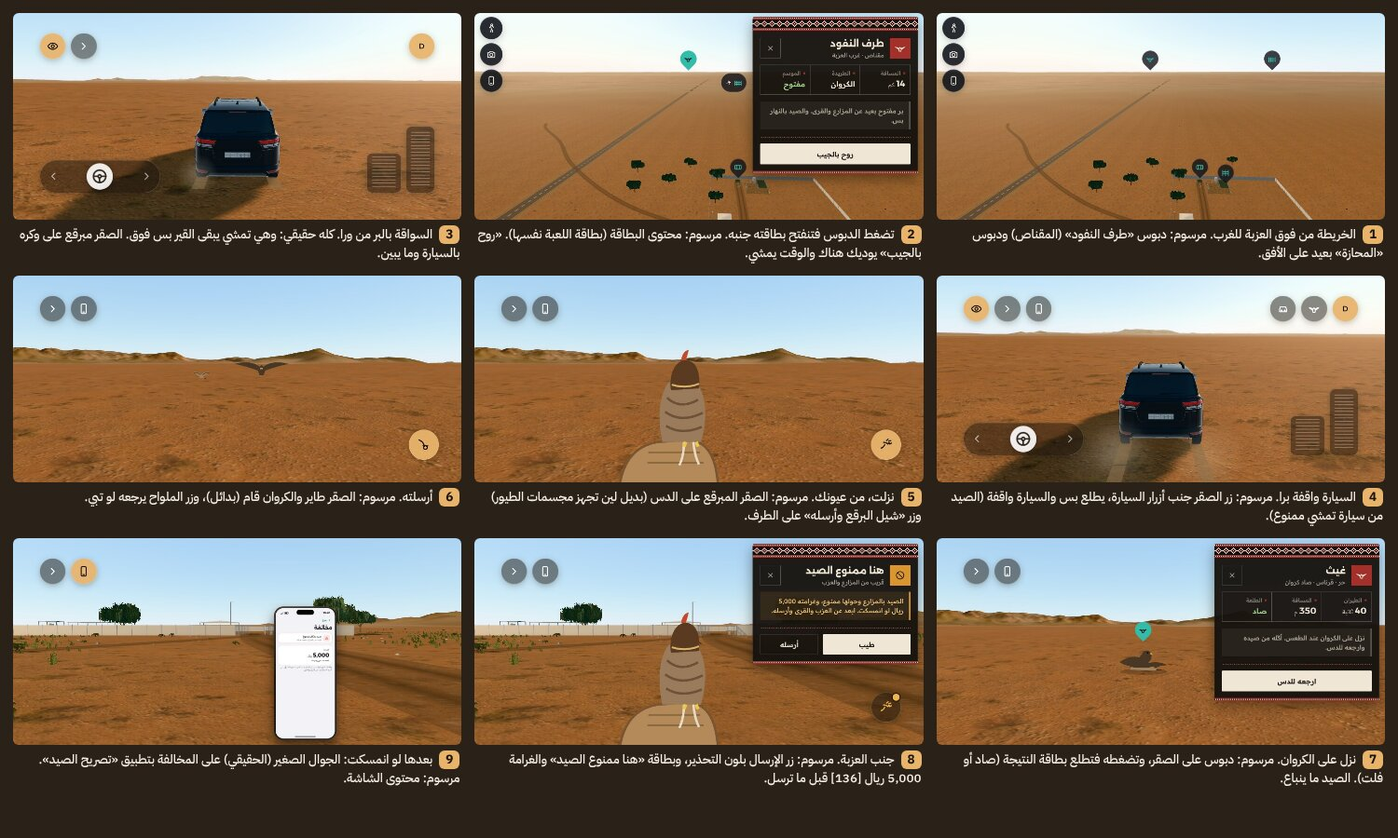
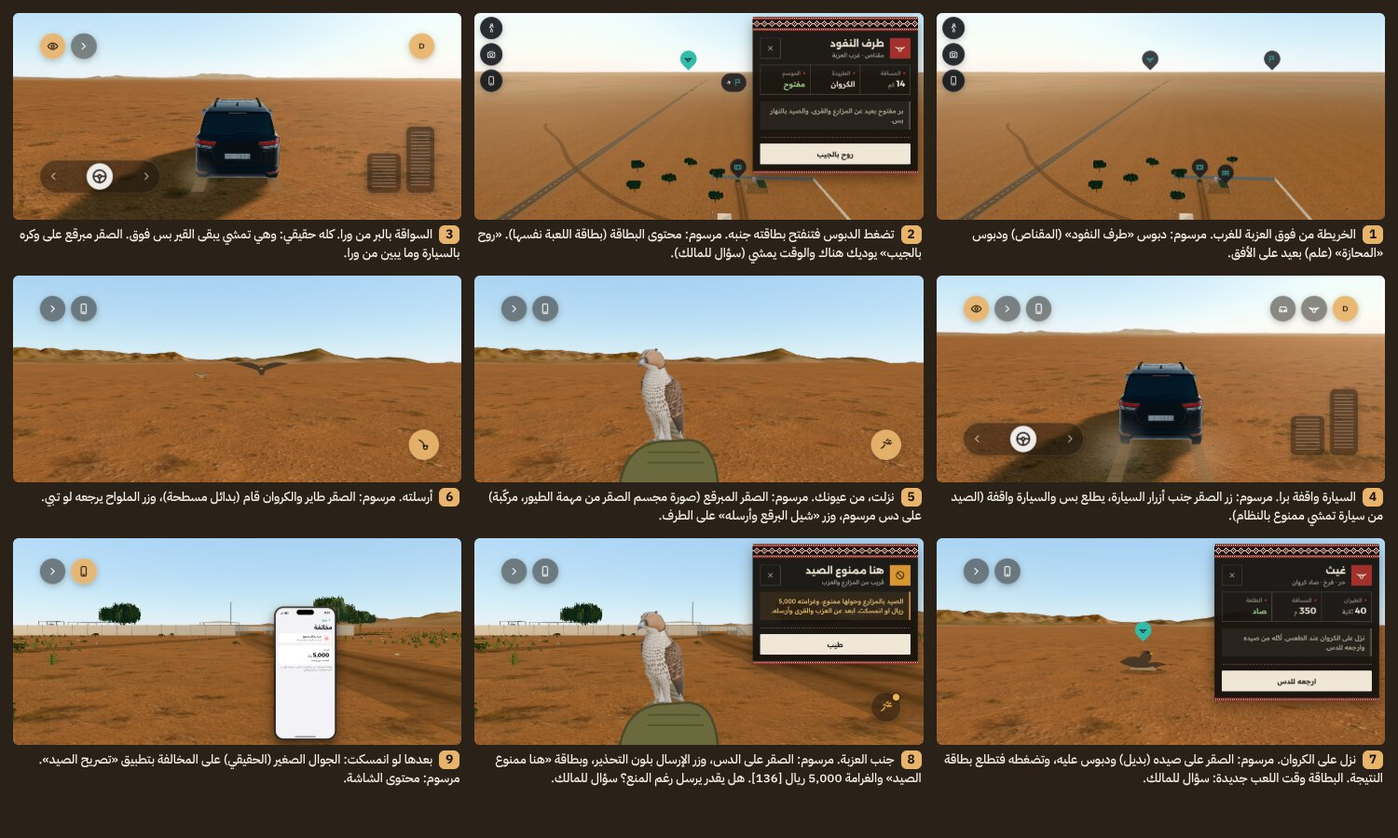
Hunting design: the reviewer's phase-2 findings
No invented inches: each lot shows تام or مثلوث (a game choice on the club's
wording) and the race's 16-inch rule stays only on the festival screen, what it
measures unknown. Wild-caught lots are «طرح هالموسم، ببيعة المزاد», mostly فرخ;
the sample falcon (bought for 32,000) finishes out of the prizes in المزاين,
with a third place's card kept only as an example; «ادعه اليوم»; the festival
scrolled to its rules (15 views). The money table sells at the next autumn's
auction after the moult's feed, adds the average prize (about 7,300 a falcon,
an estimate) and the spring release. Storyboard: T11's hooded saker on the glove
in frames 5 and 8, a strip under each frame, a flag for the estate, the warning
card offers only «طيب»; the driver's seat counted (37 draws / 159k). T11's
measured triangles replace the estimates. The note asks the card in play and
casting in a banned place, adds the spring release, and drops the patrol's name
(the owner's names decision answers it). Layout audit clean; words lint flags
only the ban lines.

Claude-Session: https://claude.ai/code/session_01MLonhqocXpQK4avaG2Yu99

diff --git a/design/hunt/cut_bird.py b/design/hunt/cut_bird.py
@@ -1,0 +1,27 @@
+#!/usr/bin/env python3
+"""Cut task T11's hooded saker out of its render, for the storyboard's frames 5 and 8 (outing.cjs), where the bird is
+seen large. The render's backdrop is a smooth gradient: it is flooded from the picture's edges, pixel to pixel while the
+colour changes by less than 9 (sum of RGB), and what the flood never reaches is the bird. Crop above the perch's top.
+Usage: python3 -I design/hunt/cut_bird.py [<T11's saker_hooded_three_quarter.jpg>] [<out png>]
+(default: design/birds/saker_hooded_three_quarter.jpg -> design/hunt/t11_saker_hooded.png)."""
+import sys
+from collections import deque
+from PIL import Image, ImageFilter
+import numpy as np
+src = sys.argv[1] if len(sys.argv) > 1 else 'design/birds/saker_hooded_three_quarter.jpg'
+out = sys.argv[2] if len(sys.argv) > 2 else 'design/hunt/t11_saker_hooded.png'
+img = Image.open(src).convert('RGB').crop((440, 130, 760, 585))
+im = np.asarray(img).astype(int); H, W, _ = im.shape
+bg = np.zeros((H, W), bool); q = deque()
+for x in range(W): q += [(0, x), (H - 1, x)]
+for y in range(H): q += [(y, 0), (y, W - 1)]
+for y, x in q: bg[y, x] = True
+while q:
+    y, x = q.popleft()
+    for dy, dx in ((1, 0), (-1, 0), (0, 1), (0, -1)):
+        ny, nx = y + dy, x + dx
+        if 0 <= ny < H and 0 <= nx < W and not bg[ny, nx] and abs(im[ny, nx] - im[y, x]).sum() < 9:
+            bg[ny, nx] = True; q.append((ny, nx))
+m = Image.fromarray(((~bg) * 255).astype(np.uint8)).filter(ImageFilter.MaxFilter(3)).filter(ImageFilter.MinFilter(5)).filter(ImageFilter.MaxFilter(3)).filter(ImageFilter.GaussianBlur(0.7))
+rgba = img.convert('RGBA'); rgba.putalpha(m); rgba.save(out)
+print('wrote', out, rgba.size)

diff --git a/docs/proposals/hunting_season_design.md b/docs/proposals/hunting_season_design.md
@@ -12,7 +12,7 @@
 | Picture | What it shows | GDD draft |
 |---|---|---|
 | `design/hunt/season_calendar.jpg` (`season.cjs`) | A year, Aug 2026 to Jul 2027: the falcons' lane, the season, the falcon festival's two disagreeing date ranges, the camels' lane from the engine; the new game's start and its first season; the two collisions | 13.1, 13.2 |
-| `design/ui/phone_falcon.jpg` (`phone_falcon.cjs`, 13 views) | The home screen with ten apps; «نادي الصقور»: the auction, a falcon's page for a buyer and the bid, the player's falcon, الدعو, the festival, the race day, the race result, المزاين's result; «تصريح الصيد»: before it is taken, held (top and scrolled), and a violation | 13.1, 13.2 |
+| `design/ui/phone_falcon.jpg` (`phone_falcon.cjs`, 15 views) | The home screen with ten apps; «نادي الصقور»: the auction, a falcon's page for a buyer and the bid, the player's falcon, الدعو, the festival (top and scrolled to its rules), the race day, the race result, المزاين's result (the sample falcon out of the prizes), and an example of a third place's card; «تصريح الصيد»: before it is taken, held (top and scrolled), and a violation | 13.1, 13.2 |
 | `design/hunt/outing_1..9_*.jpg`, `outing_board.jpg` (`outing.cjs`) | The outing on real screenshots of the game: the two places as far pins, the place's card, driving out, parked, on foot with the falcon on the glove, the cast-off, the result, the banned place's warning, the fine after | 13.1 |
 | `design/hunt/season_money.jpg` (`season.cjs`) | One season's costs against what it can bring, for a pastime and for a contest falcon | 13.1, 13.2 |
 
@@ -66,8 +66,14 @@ loses a step (game choice). No الدعو in the moult.
 ### What a buyer sees, and what stays hidden
 
 A falcon on the auction shows its species, age (فرخ under a year, قرناس over [169]), origin
-(طرح or farm-bred), its span in inches (a saker at least 16 for the contests [169]) and its
-weight: all things a buyer really sees. How it hunts and races is never shown: only its
+(طرح or farm-bred), whether it is «تام» (a full-sized female) or «مثلوث» (the smaller male), and
+its weight: all things a buyer really sees. «تام / مثلوث» is a game choice resting on the club's
+2025 rules' wording as a search summary gives it («تام وليس مثلوث»; not in research section 8).
+The race's «الحر عرضه 16 إنش وفوق» [169] is shown only on the festival screen, as the club's own
+words: **what the inches measure is not known** (not the wingspan: 16 in is 40.6 cm), so no
+falcon carries a number of inches. A wild-caught bird is «طرح هالموسم»: trapped this season and
+sold at the auction [156][157]; that it was trapped with a licence rests on a weak source [160].
+Most wild-caught lots are فرخ (a wild-caught قرناس is rarer: game choice). How it hunts and races is never shown: only its
 outings and results tell, as with the camels' scores.
 
 ### The outing
@@ -92,9 +98,11 @@ outings and results tell, as with the camels' scores.
 8. A banned place (the farm and around it, towns, reserves, the coast to 20 km
    [127][134][135]), a closed season or night (an hour before sunset to an hour after sunrise
    [135], one source): the button shows in its warning colour; a tap opens the warning card with
-   the fine in words (5,000 [136]); the player may still cast (as cheating at the festival).
+   the fine in words (5,000 [136]). The card offers only «طيب»: whether he may knowingly cast
+   anyway is the owner's (question 8).
 9. Caught, the fine comes after, in the permit app (a badge on the phone button): «مخالفة».
-   Who stops him is «الدورية»: the real body (الأمن البيئي) is not named (question 7).
+   Who stops him is «الدورية»: the real body is not named, following the owner's generic-names
+   decision of 13 Nov.
 
 **Why open land offers only الكروان:** the law. The stone-curlew is the falcon's quarry on the
 open-land list [140]; houbara is confirmed only in the licensed estates [142], and whether it
@@ -103,30 +111,35 @@ falconer will ask why: this is why.
 
 **The card in play** is new: today the place card is hidden in play (`body.playing #pop`).
 The frames show it docked on the right, as on the map. On foot there is nothing else there;
-in the car the card must sit below the car's row (a build note).
+in the car the card must sit below the car's row. The approved HUD hides cards in play, so this
+is the owner's to decide (question 7).
 
 **What a frame costs:** the base of each frame was counted from the WebGL calls (main pass and
 shadow pass, `design/hunt/outing_draws.txt`; SwiftShader at 956x440, the counts are the
-phone's, the times are not). The new models are **estimates until task T11 measures them**:
-the falcon about 2–3k triangles, 1 draw and 1 shadow draw (its 1 m span is over the 30 cm
-rule); a stone-curlew about 2k and 1 draw.
+phone's, the times are not). The new models are task T11's measured ones
+(`/home/user/wt/t11`): the hooded saker close 6,752 triangles with hood and jesses in 3 draws,
+alert 6,188, in flight 6,364; the stone-curlew 5,084 / 5,420; the houbara 4,996 / 6,052; each
+far model under 1,500; the perch 1,424; the cuff 864. Each draw also casts a shadow (the
+saker's 1 m span is over the 30 cm rule). The sums are still estimates until the birds are in
+the page.
 
 | Frame | Base, measured (main + shadow) | With the new models (estimate) |
 |---|---|---|
 | 1 the map looking west | 118 draws / 155k | pins only: +0 |
 | 3 driving, from behind | 72 / 143k | the falcon unseen in the car: +0 |
 | 4 parked, from behind | 74 / 143k | +0 |
-| 5 on foot, falcon on the glove | 58 / 227k | +2 draws, +3k (falcon and its shadow): 60 / 230k |
-| 6 the flight | 34 / 104k | +3 draws, +5k (falcon, its shadow, a stone-curlew) |
-| 7 the result | 34 / 104k | +3 draws, +5k |
-| 8 on foot by the yard | 78 / 197k | +2 draws, +3k |
+| driver's seat, parked (counted, no picture) | 37 / 159k | the hooded saker on its perch in the cabin: +4 draws +4 shadow, +8.2k (+8.2k shadow): 45 / 175k |
+| 5 on foot, falcon on the glove | 58 / 227k | hooded saker and cuff: +4 draws +4 shadow, +7.6k (+7.6k shadow): 66 / 242k |
+| 6 the flight | 34 / 104k | far saker and far stone-curlew: +2 +2 shadow, under 3k (+3k): 38 / 110k |
+| 7 the result | 34 / 104k | the same: 38 / 110k |
+| 8 on foot by the yard | 115 / 258k (78 / 197k in an earlier run: the herd moves) | hooded saker and cuff: 123 / 273k |
 
-All far under the ADR's 200 draws and 400k triangles. (The base on foot here, 58 / 227k, is
+All under the ADR's 200 draws and 400k triangles. (The base on foot here, 58 / 227k, is
 lower than the 167 / 394k counted on foot by the car at the yard: out in the open there are no
 pens, buildings or grass cells in view.)
 
 None of the outing frames is near the herd: the hunting ground is kilometres away and the farm
-is a banned place. The heaviest outing frame is on foot by the car with the falcon on the glove: about 60 draws and 230k triangles (estimate on a measured base).
+is a banned place. The heaviest view is frame 8, on foot by the yard with the falcon on the glove: about 123 draws and 273k triangles (T11's counts on a measured base); out in the open, the same is about 66 / 242k. The driver's seat with the falcon hooded on its perch is about 45 / 175k.
 
 ### The contests
 
@@ -153,11 +166,17 @@ not drawn as species. Unresolved.
 
 ### Money (the owner's decision)
 
-`season_money.jpg`: a wild-caught saker and a season of outings costs about 48,000 and returns
-about 45,000 if sold (both game choices); hunting itself earns nothing [166]. Contests: about
-one falcon in five wins anything (1,012 prizes [170][176] for more than 5,200 falcons [157]: an
-estimate from two sources), so most seasons are a small loss and a rare one a large gain
-(a third place at المزاين is 100,000 [177]).
+`season_money.jpg`: a wild-caught فرخ (32,000) and a season of outings. No auction runs from
+December to August (the calendar), so the falcon is sold at the next autumn's national auction,
+as a قرناس, after eight months of feed through the moult: the pastime costs about 8,000 over the
+year (game choices). Hunting itself earns nothing [166]. Contests: about one falcon in five wins
+anything (1,012 prizes [170][176] for more than 5,200 falcons [157]), and the prizes average about
+7,300 a falcon (more than 38 million [170][176] over those falcons): both estimates from two
+sources. So most seasons are a small loss (−9,560), the average about −2,260, and a third place
+at المزاين (100,000 [177], one round's split, one source) a large gain (+115,440). The four
+classes' first prizes on the festival screen are that one round's split extended to them (game
+choice). Falconers often release passage birds in spring; if the player may, the pastime costs
+about 38,000 and nothing is sold (question 10).
 
 ## Where the later parts attach (not designed here)
 
@@ -181,9 +200,10 @@ estimate from two sources), so most seasons are a small loss and a rare one a la
    *or* drive all 14 km.
 2. **The falcon at the farm.** *Recommended:* the falcon lives on its perch (الوكر) under the
    tent's shade (بيت الشعر) or the room's porch, seen only when the camera is near, with no pin
-   of its own: its care is in the phone. Its cost near the herd: about 2–3k triangles and two
-   draws when within sight, nothing when far (one static perched pose, no animation:
-   estimate). *Or:* a mews as a place with its own pin and card (more to tap on the map; the
+   of its own: its care is in the phone. Its cost near the herd, from T11's models: the
+   hooded saker 6,752 triangles in 3 draws and the perch 1,424 (about 8.2k and 4 draws, the
+   same again for their shadows) when within sight, nothing when far; one static perched pose,
+   no animation, so it is not an animated animal beside the herd. *Or:* a mews as a place with its own pin and card (more to tap on the map; the
    map stays clear only if the pin shows when near).
    > الصقر بالعزبة: يقعد على وكره تحت بيت الشعر ويبان لما تقرّب، ورعايته من الجوال؟ ولا تبي له مكان بدبوس وبطاقة؟ نقترح الأولى.
 3. **The camels while he is away.** *Recommended:* nothing stops: the herd goes on as it does
@@ -191,9 +211,9 @@ estimate from two sources), so most seasons are a small loss and a rare one a la
    game hours, not days. *Or:* a longer trip (a camp of days, as real falconers do [155][156])
    leaves the herd to the herdsman, and without one the herd's daily care waits.
    > الحلال وانت بالمقناص: يمشي مثل ما هو وكل شي على حاله، والطلعة ساعات؟ ولا تبي طلعات أيام بمخيم والراعي يمسك الحلال؟ نقترح الأولى.
-4. **The falcon festival's date.** *Recommended:* the 2025 dates (25 Dec – 10 Jan), the last
-   edition the sources agree on, inside the camel festival: the player chooses. *Or:* 17–30 Nov.
-   Both stay a game choice until the club's own page is read.
+4. **The falcon festival's date, as an interim choice** until the club's own page can be read.
+   *Recommended:* the 2025 dates (25 Dec – 10 Jan), the last edition the sources agree on,
+   inside the camel festival: the player chooses. *Or:* 17–30 Nov.
    > مهرجان الصقور: نخليه 25 ديسمبر لين 10 يناير مثل آخر نسخة مؤكدة، ويصادف المهرجان الكبير للإبل؟ ولا 17 لين 30 نوفمبر؟ نقترح الأولى لين نقرا صفحة النادي.
 5. **Pastime or second business.** *Recommended:* a pastime that costs, with a rare large prize,
    at the real odds (about one falcon in five wins anything).
@@ -202,12 +222,25 @@ estimate from two sources), so most seasons are a small loss and a rare one a la
    *Recommended:* yes, rarely, when it is cast far or too heavy, with the tracker shown as a
    direction on the map until it is found or given up. *Or:* never lost.
    > الصقر ممكن يضيع بالواقع ويدورونه بجهاز التتبع: تبيه يضيع أحيان؟ نقترح نعم بس نادر.
-7. **Who stops the player.** The real body is «الأمن البيئي». *Recommended:* the generic «الدورية»,
-   as the names decision does for the apps. *Or:* the real name.
-   > اللي يوقفك لو صدت بمكان ممنوع: نكتب «الدورية» عامة، ولا الاسم الحقيقي «الأمن البيئي»؟ نقترح «الدورية».
-8. **Still open from the draft (13.6):** aiming with the air rifle (recommended: a tap on the
+7. **The place card in play.** The approved HUD hides cards while playing; the outing needs one
+   for the hunting ground, the result and the warning. *Recommended:* in play, a card opens only
+   when the player taps a pin or a warning button, docked on the right (below the car's row when
+   in the car), and closes with its ✕. *Or:* no card in play: the result told in the phone (a
+   badge) and the warning as the button's colour alone.
+   > البطاقة وقت اللعب (مو بس بالخريطة): تنفتح بس لما تضغط دبوس أو زر التحذير، على اليمين؟ ولا ما فيه بطاقات وقت اللعب والنتيجة بالجوال؟ نقترح الأولى.
+8. **Casting in a banned place anyway.** *Recommended:* not allowed: in a banned place, a closed
+   season or at night the cast button opens only the warning («طيب»); hunting stays lawful by
+   design, as your Kalashnikov and cheating decisions keep the unlawful to its own secret ways.
+   *Or:* allowed with its risk (the 5,000 fine if caught, a chance a game choice), as cheating is.
+   > لو أنت بمكان ممنوع أو الموسم مقفل أو بالليل: زر الصقر يحذرك بس وما يرسل؟ ولا يرسل على كيفك مع خطر الغرامة 5,000 لو انمسكت؟ نقترح يحذر بس.
+9. **Still open from the draft (13.6):** aiming with the air rifle (recommended: a tap on the
    flock, the result by chance and reach) and cheating in falcon contests (recommended: not now,
    until the Saudi penalty is found [179][180]). Unchanged by this design.
+
+10. **Releasing a passage falcon in spring.** Falconers often release wild-caught birds after the
+   season. *Recommended:* allowed, as a choice in the falcon's page from February (no resale,
+   no feed through the moult). *Or:* keep or sell only.
+   > الصقارين كثير يطلقون الطرح بالربيع: تبي اللاعب يقدر يطلق صقره بعد الموسم؟ نقترح نعم.
 
 ## Not sure
 
@@ -217,4 +250,6 @@ estimate from two sources), so most seasons are a small loss and a rare one a la
   the falcon and its sex names were not checked against a source; the left hand in the frames is
   a stand-in's pose, not a claim.
 - Whether "five a round" [175] counts falcons per round or per falconer.
+- What the race's «16 إنش» measures; the same search summary gives a peregrine at least 15 in
+  and «تام وليس مثلوث» (not in research section 8: a gap to read on the club's page).
 - The phone views' race and beauty results are samples (names, fields and places invented).

diff --git a/design/ui/README.md b/design/ui/README.md
@@ -11,9 +11,9 @@ These mockups were reviewed by agents and approved by the owner. Only the inform
 | `phone_haraj.jpg` (drawn by `phone_haraj.cjs` with `phone_haraj.css`) | الحراج on the engine: the listings, a camel's page (buy, or haggle three times a seller), selling one's own camel (listed at one's price or to the broker now), and one's listings with their offers; the old design's «على السوم» tab and live auction left out (every listing takes offers; the auctions come later), approved 2026-11-13. |
 | `phone_bank.jpg` (drawn by `phone_bank.cjs` with `phone_bank.css`, its figures from `phone_bank_data.dart`, dumped to `phone_bank.json`) | البنك on the engine's own ledger (a new game, seed 4242, played forward by the engine): the main screen on day one, on 22 October after a day of money both ways (the net in the home widget's words, the split under it) and six and a half months in (each month's net and its biggest movement, «أكبرها: …»), and a month opened by kind: October, November (a camel bought and trucked) and February (the calf sold, shown as what reached the player with its price and السعي; no milk). Approved 2026-11-13 with the month rows by their biggest movement (option B; the in-and-out rows dropped) and السعي folded into its sale; built in the phone. The approved mock's تحويل, طلب مبلغ, الرواتب and الكشف are left out: the engine has no transfers, wages are taken on the 1st by themselves, and the months are the statement. |
 | `phone_mazayen.jpg` (drawn by `phone_mazayen.cjs`) | **Approved by the owner 2026-11-13 for building.** Cheating lives in a secret dealer's chat, reached through a new «المحادثات» app (he messages after a registration; the festival's own app never offers it), and the round's day is told stage by stage through the day with a notice at each stage (the hours a game choice). المزاين on the festival engine (GDD 7 and 7.1, the owner's festival decisions of 2026-11-13), in nine views from real games on seed 4242 (1 October 2026; copies played on a fast clock to the round's day): the festivals (the one open, the player's entry and its withdrawal, the coming ones by their days and the highest first prize a player can enter for); a festival in two views (its individual rounds and first prizes, each colour's day, free then late registration closing 72 hours before the round, the group rounds only as coming later, the rules); registering (each camel with its round or the engine's refusal, and the cost); the secret treatment in a dealer's chat (the seven kinds, then light, middle or strong with each one's price, fine and risk in words; kinds stack and the risk adds up; the examination at a sale); the round's day (the six stages from الشريحة والشاهد, told one by one); the results (placings and prizes only, no scores); and the day a treatment is found, played in a game, not drawn from rules (the fine, the ban from every festival, the balance below zero, the account for feed, water and the vet). Every figure is the engine's; what is still copied or a placeholder is listed in the session's report. |
-| `phone_falcon.jpg` (drawn by `phone_falcon.cjs`) | **Awaiting the owner's approval (13 Nov 2026), not built.** الصقور in two apps, «نادي الصقور» and «تصريح الصيد» (the owner's generic names), in thirteen views: the home screen with ten apps (the six, المزاين and المحادثات being built, and the two new ones); the auction of wild-caught falcons (1 Oct – 30 Nov), a falcon's page for a buyer (species, age, origin, span, weight; how it hunts and races hidden) and the bid; the player's falcon (passport, outings, results); الدعو as one short care each time the game opens, its change in words; مهرجان الصقور (الملواح's classes, المزاين's classes and prizes, the rules); the race day and its result (times to three decimals); المزاين's result (places and prizes, no scores); the permit before it is taken, held (top and scrolled: the season and halves, by day only, the banned places, the never-hunted, the fines) and a violation. No hunting engine yet: every figure is real by its source number or a game choice, listed in the script's header. The falcon pictures are stand-ins until task T11's birds exist. Notes in `docs/proposals/hunting_season_design.md`. |
+| `phone_falcon.jpg` (drawn by `phone_falcon.cjs`) | **Awaiting the owner's approval (13 Nov 2026), not built.** الصقور in two apps, «نادي الصقور» and «تصريح الصيد» (the owner's generic names), in fifteen views: the home screen with ten apps (the six, المزاين and المحادثات being built, and the two new ones); the auction of wild-caught falcons (1 Oct – 30 Nov), a falcon's page for a buyer (species, age, origin, تام or مثلوث, weight; how it hunts and races hidden) and the bid; the player's falcon (passport, outings, results); الدعو as one short care each time the game opens, its change in words; مهرجان الصقور (الملواح's classes, المزاين's classes and prizes; scrolled, the rules); the race day and its result (times to three decimals); المزاين's result (places and prizes, no scores; the sample falcon out of the prizes) and, as an example only, what a third place's card looks like; the permit before it is taken, held (top and scrolled: the season and halves, by day only, the banned places, the never-hunted, the fines) and a violation. No hunting engine yet: every figure is real by its source number or a game choice, listed in the script's header. The falcon pictures are stand-ins until task T11's birds exist. Notes in `docs/proposals/hunting_season_design.md`. |
 | `../hunt/season_calendar.jpg`, `../hunt/season_money.jpg` (drawn by `../hunt/season.cjs`) | **Awaiting the owner's approval.** The hunting season against the camel year (Aug 2026 – Jul 2027; the falcon festival's two disagreeing date ranges and the camel festival each meets; a new game's first season from 1 October), and one season's costs against what it can bring (pastime or contests). |
-| `../hunt/outing_1..9_*.jpg`, `../hunt/outing_board.jpg` (drawn by `../hunt/outing.cjs`) | **Awaiting the owner's approval.** The outing as storyboard frames on real screenshots of the game page at 956 x 440: the hunting ground and the estate as far pins, the ground's card, driving out, parked (the falcon's button in the car's row), on foot with the hooded falcon on the glove and the cast-off button, the flight, the result card, the banned place's warning, the fine after in the small phone. What is drawn is listed under each frame in `outing_board.jpg`; the birds are stand-ins; each frame's draws and triangles in `../hunt/outing_draws.txt`. |
+| `../hunt/outing_1..9_*.jpg`, `../hunt/outing_board.jpg` (drawn by `../hunt/outing.cjs`) | **Awaiting the owner's approval.** The outing as storyboard frames on real screenshots of the game page at 956 x 440: the hunting ground and the estate as far pins, the ground's card, driving out, parked (the falcon's button in the car's row), on foot with the hooded falcon on the glove and the cast-off button, the flight, the result card, the banned place's warning, the fine after in the small phone. What is drawn is listed under each frame in `outing_board.jpg`; frames 5 and 8 show task T11's render of the hooded saker on a drawn glove, the other birds are flat stand-ins; each frame has its strip under it; each frame's draws and triangles in `../hunt/outing_draws.txt`. |
 
 ## The map HUD
 
